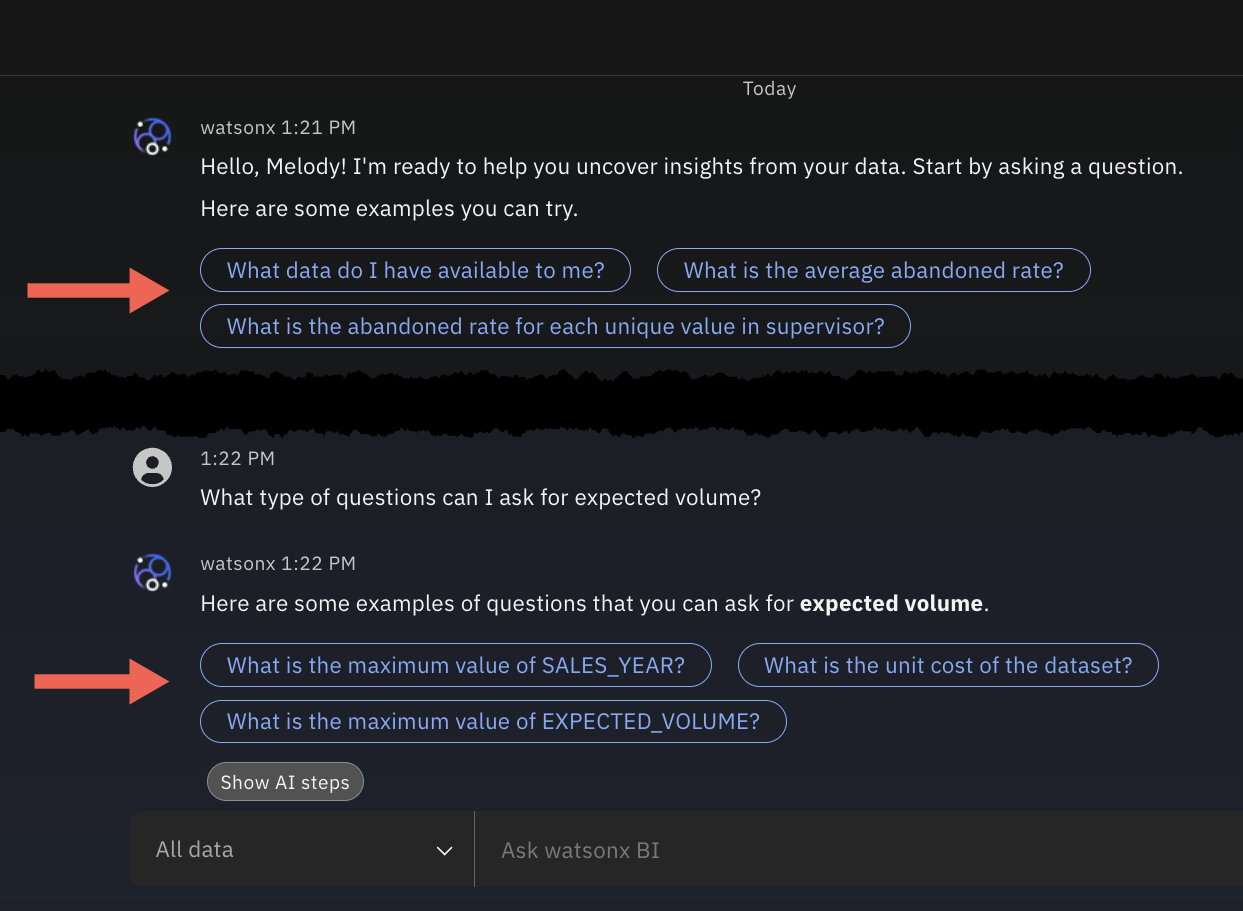
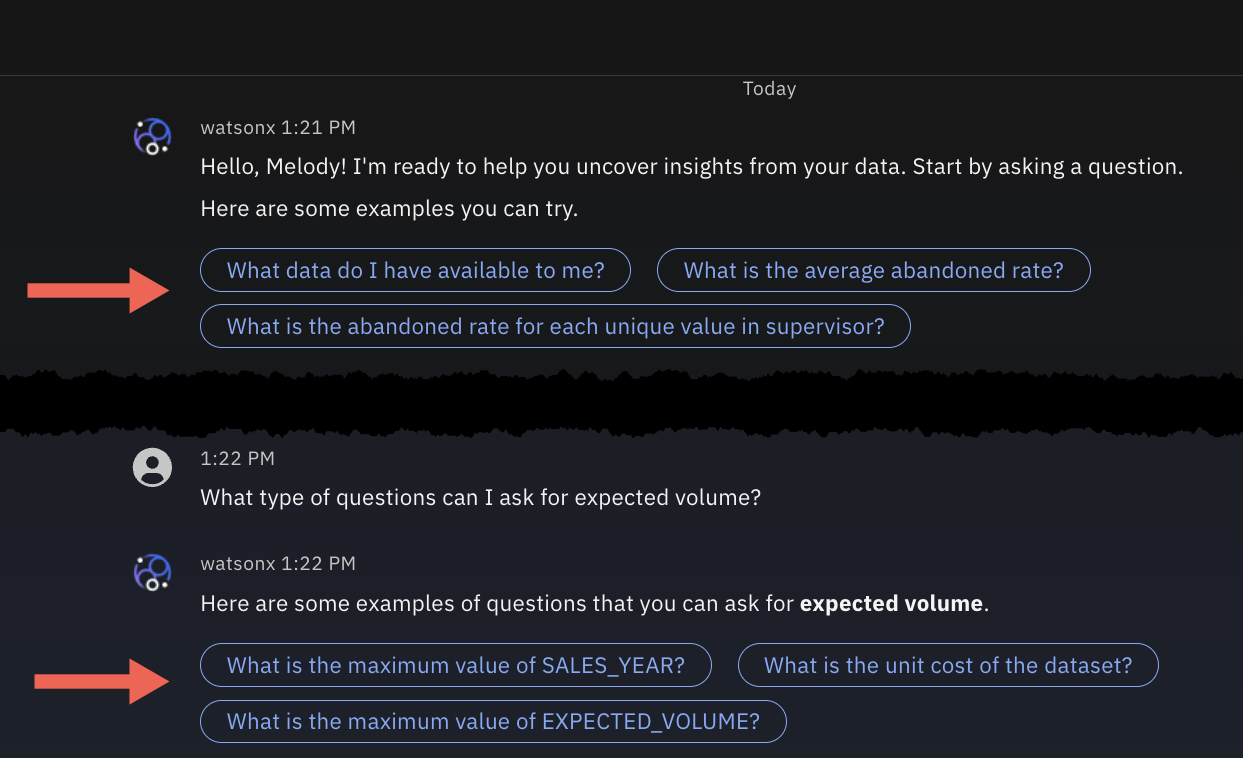
Next publish push (#43)
* Update: 12-11-2025

* Update: 13-11-2025

* Update: 26-11-2025

* Update: 26-11-2025

* Update: 26-11-2025

* Update: 27-11-2025

* Update: 27-11-2025

* Update: 03-12-2025

* Update: 04-12-2025

* Update: 04-12-2025

* Update: 04-12-2025

* Update: 04-12-2025

* Update: 08-12-2025

* Update: 08-12-2025

* Update: 08-12-2025

diff --git a/troubleshooting_enrichment.md b/troubleshooting_enrichment.md
@@ -1,0 +1,52 @@
+---
+copyright:
+  years: 2025
+lastupdated: "2025-11-26"
+
+keywords: monitor enrichment, enrichment error, enrichment warnings
+subcollection: watsonx-bi
+
+
+---
+
+{{site.data.keyword.attribute-definition-list}}
+
+
+# Metadata enrichment errors or warnings 
+{: #troubleshoot_enrichment}
+
+
+
+When creating metrics, you might encounter metadata enrichment (MDE) errors or warnings. These indicate that the enrichment process was incomplete or encountered issues. {: #shortdesc}
+
+- Errors must be resolved by re-running enrichment
+
+- Warnings can be ignored but doing so might reduce query accuracy
+
+Metadata enrichment is essential because the process not only expands metadata, assigns business terms, generates contextual asset and column names and descriptions, but also computes vectors. Vectors help AI understand semantic relationships between queries and actual data values in a structured and mathematical way. Without these vectors, filters in queries (the WHERE clause of a query) might fail to match the correct data if exact values aren't specified in a question.
+
+## Impact of ignored warnings
+{: #ignoring_warnings}
+
+Ignoring enrichment warnings can lead to:
+
+- Incorrect filters - Filters in queries (WHERE clauses) might not match the correct data. 
+
+  For example, asking for “americas” when the column contains “North America” and “South America” might return no results unless vectors suggest the correct values.
+
+- Case and format mismatches - If your data uses specific formats, queries using other variations might fail.
+
+  For example, asking for "surgeries" when the data contains the term "SURGERY" might not return any results. 
+
+If you are unable to resolve warnings and need to proceed with creating metrics or asking questions about your data, you can improve accuracy by adding descriptive column metadata with example values or format details in the semantic data model. The LLM uses this as context when generating queries.
+
+## Common metadata enrichment errors and warnings
+{: #common_mde_messages}
+
+| **Message** | **Impact** | **Recommended action** |
+|-------------|-----------|--------------------------|
+| Unable to retrieve data values to process enriched metadata. | Metadata enrichment could not be completed because data values were not retrieved. | You need to resolve this error before proceeding. Click **Try again** to re-run enrichment. |
+| Unable to retrieve data values to compute and write vectors to Cloud Object Storage. | Enrichment completed with a warning that data values could not be retrieved to compute and write vectors to Cloud Object Storage. This issue will impact accuracy for filter search.| Click **More details** and re-run enrichment.|
+| Unable to compute and write vectors to Cloud Object Storage. | Enrichment completed with a warning that vectors could not be computed and stored to Cloud Object Storage.  This issue will impact accuracy for filter search. |Click **More details** and re-run enrichment. |
+| Unable to write vectors to Cloud Object Storage. | Enrichment completed with a warning that Vectors were computed but not saved. This issue will impact accuracy for filter search. | Click **More details** and re-run enrichment. |
+| Unable to compute and write some vectors to Cloud Object Storage. | Enrichment completed with a warning that only some vectors were computed and written to Cloud Object Storage. This issue might impact acccuracy for filter search. | Click **More details** and re-run the step. |

diff --git a/choose_llm.md b/choose_llm.md
@@ -1,7 +1,7 @@
 ---
 copyright:
   years: 2025
-lastupdated: "2025-10-31"
+lastupdated: "2025-12-08"
 
 keywords: choose llm, large language model
 subcollection: watsonx-bi
@@ -13,7 +13,7 @@ subcollection: watsonx-bi
 {{site.data.keyword.attribute-definition-list}}
 
 
-# Choosing the large language model (LLM) 
+# Selecting the large language model for your account
 {: #choose_llm}
 
 At the time of setting up {{site.data.keyword.wxbia_full}}, Administrators can choose the large language model (LLM) that will be used in {{site.data.keyword.wxbia_short}} conversations for users in their organization. {: #shortdesc}
@@ -30,6 +30,8 @@ As an Administrator, you can choose from the following LLMs:
 |[OpenAI gpt-oss-120b](https://www.ibm.com/docs/en/watsonx/saas?topic=models-third-party-foundation#gpt-oss){: external} and IBM Granite-3-8b-instruct| As a Service, Software Hub 5.2.2 and later versions|
 |[Meta Llama 4](https://www.llama.com/docs/model-cards-and-prompt-formats/llama4/){: external} and IBM Granite-3-8b-instruct | As a Service|
 |[IBM Granite-3-8b-instruct](https://www.ibm.com/docs/watsonx/w-and-w/2.2.0?topic=models-granite-30-8b-instruct-model-card){: external} | As a Service, Software Hub 5.2.0 and later versions |
+
+
 
 Watsonx BI on Software Hub 5.2.1 and previous versions use IBM Granite-3-8b-instruct to respond to your questions. 
 {: note}
@@ -57,14 +59,14 @@ While watsonx BI utilizes large language models for various tasks, this feature 
 
   Choose Meta Llama 4 and Granite for complex, multi-step BI queries. 
 
-
-
+ 
 
 ## Changing the large language model
 {: #change_llm}
 
-Administrators change the LLM from **Navigation menu > Configuration and settings**. 
+As an administrator, you can change the LLM from **Navigation menu > Configuration and settings**. 
 
 When you change the LLM, the change applies at the account level and to new conversations or queries. This means that the change applies to everyone that is a part of the account that has access to {{site.data.keyword.wxbia_short}}.
 
-Users can see the updated LLM name in the AI icon in **Conversations**. Additionally, users can see the LLM being used in the query generation step under **Steps taken by AI** when they ask their next question or start a new conversation.
+Users can see the updated LLM name in the AI icon in **Conversations**. Additionally, users can see the LLM being used in the query generation step under **AI steps** when they ask their next question or start a new conversation.
+  

diff --git a/calculations.md b/calculations.md
@@ -1,7 +1,7 @@
 ---
 copyright:
   years: 2025
-lastupdated: "2025-10-31"
+lastupdated: "2025-11-26"
 
 keywords: calculations, modeling
 subcollection: watsonx-bi
@@ -53,14 +53,9 @@ The expression for these calculations is predefined, and you need to only select
 
   If your calculation is based on two columns, ensure that the order of columns is correct, and choose the required operator. If the order of columns is incorrect, click **Cancel**, and start the calculation again by selecting the columns in the proper order.
 
-5. (Optional) Select the **Calculate after aggregation** checkbox.
 
-  If you select this checkbox, the calculation is performed after the values are aggregated. When you leave this checkbox clear, the calculation is performed on the column values before they are aggregated. The calculation results might be different in each case. 
 
-  When editing a calculation, the **Calculate after aggregation** check box is available only when the calculation **Usage** property is set to **Measure**.
-  {: note}
-
-6. Click **OK** to finish the calculation, or click **Use calculation editor** to view the calculation expression, or to modify it.
+5. Click **OK** to finish the calculation, or click **Use calculation editor** to view the calculation expression, or to modify it.
 
 A calculation based on one column is created as an embedded calculation. The calculation is added at the top of the list of columns in the table. You can move it to a folder inside the same table.
 
@@ -98,11 +93,9 @@ Custom calculations can be based on one column or multiple columns from differen
 
 4. Click **Validate** to check if the expression is valid. The calculation will be created even if the expression is not valid, but it won't be usable.
 
-5. (Optional) Select the **Calculate after aggregation** checkbox.
 
-  When you leave this checkbox clear, the calculation is performed on the column values before they are aggregated. If you select this checkbox, the calculation is performed after the values are aggregated. The calculation results might be different in each case.
 
-6. Click **OK**.
+5. Click **OK**.
 
 A calculation based on one column is created as an embedded calculation. The calculation is added at the top of the list of columns in the table. You can move it to a folder inside the same table.
 

diff --git a/download_response.md b/download_response.md
@@ -1,0 +1,41 @@
+---
+copyright:
+  years: 2025
+lastupdated: "2025-12-03"
+keywords: download, download response, share resposne
+subcollection: watsonx-bi
+
+
+
+---
+
+{{site.data.keyword.attribute-definition-list}}
+
+
+
+# Downloading responses and data from a conversation
+{: #download_response}
+
+You can download the answer and its associated components, such as visualizations, tabular data, and diagnostic information, that were generated in response to your current question. This feature helps you save and share insights from your queries. {: #shortdesc}
+
+You can download the following components of a generated response:
+
+| **Content type**      | **Definition** | **File format** |
+|------------------------|-----------------|-----------------|
+| **Text response**      | The text answer generated in response to your question. Only the text answer is downloaded. Visualizations generated with the response and insights are not included. | `.txt` |
+| **Visualizations**      | The chart generated to answer your question. If you're using Chain of thought reasoning, multiple visualizations might be generated to answer your question, which you can download at the same time. Insights are not included. |`.png` |
+| **Tabular data**       | Tabular data is the data table used by the large language model to generate the response. |`.csv` |
+| **Diagnostic information**    | Diagnositc information includes details such as the steps the AI took to respond, associated SQL, and the response ID (or Support ID). Only Data analysts can download diagnostic information. 
+{: note}| `.json` |
+
+
+If you select multiple components, a ZIP file with the chosen items downloads. 
+
+## Limitations
+{: #limitations_download_response}
+
+- You can download content only from a response where the large language model (LLM) generated a query. 
+
+- Only Data analysts and administrative users can download diagnostic information. 
+
+- You cannot upload a tabular data file that was downloaded from a response to generate insights. 

diff --git a/explainability.md b/explainability.md
@@ -25,11 +25,11 @@ Governed business data is data that has gone through different processes, polici
 
 To respond to your BI question, the LLM analyzes and helps interpret your input. It can then match the interpreted input to your business data (such as column names, measures, or filters) and generates a query to retrieve the matched information to respond to your input. 
 
-The LLM generates a text-based response, visualization, or both based on the matched information to respond to your question. You can see each of these steps under **Steps taken by AI**. 
+The LLM generates a text-based response, visualization, or both based on the matched information to respond to your question. You can see each of these steps under **AI steps**. 
 
 The LLM also monitors key metrics and helps to identify changes in the business data. When you click a metric in the **Key metrics** panel to open it, notice that the AI can summarize and help explain the identified changes in your metrics.
 
-The selected LLM name that was used to respond to your queries displays in the **AI** label and **Steps taken by AI** in conversations.
+The selected LLM name that was used to respond to your queries displays in the **AI** label and **AI steps** in conversations.
 
 {{site.data.keyword.wxbia_short_cap}} uses large language models (LLMs) that are hosted in IBM watsonx.ai and does not use your data to train the models.
 {: note}
@@ -54,4 +54,4 @@ The following LLMs are available:
 
 The LLM change applies at the account level and to new conversations or queries. This means that the change applies to everyone that is a part of the account that has access to {{site.data.keyword.wxbia_short}}.
 
-The updated LLM name appears in the AI icon and the query generation step under **Steps taken by AI** in **Conversations**.  
+The updated LLM name appears in the AI icon and the query generation step under **AI steps** in **Conversations**.  

diff --git a/modeling_best_practices.md b/modeling_best_practices.md
@@ -1,7 +1,7 @@
 ---
 copyright:
   years: 2025
-lastupdated: "2025-11-07"
+lastupdated: "2025-11-26"
 
 keywords: best practices, tips for watasonx BI, optimizing data
 subcollection: watsonx-bi
@@ -125,12 +125,13 @@ Make sure that you add a label and description for metric columns in the semanti
 
 3. AI-suggested or generated in the metadata enrichment asset
 
-
-
 #### Writing a strong description 
 {: #strong_desc}
 
 Ensure that the label and description are worded based on your business context and how users will likely ask questions.
+
+Descriptions need to be 512 characters or less to ensure a balance between accuracy and effectiveness.
+{: important}
 
 Include values in the description to specify time periods
 :   For example: If months are represented as “Jan”, “Feb”, “Mar”, include that in the description. *“Month values are abbreviated as Jan, Feb, Mar...”*
@@ -142,6 +143,10 @@ Reflect user language preferences
 :   For example: If there is a column called "manager”, but your business users use the word "boss" then reflect that in the description. 
   
 :   If you want AI to use "Cost of goods sold" column to answer questions about "Cost breakdown", then add that phrase to the description of the column.
+
+Include multiple examples to demonstrate use 
+: For example: If there is a column called "Year" and you want the LLM to refer to it when you ask it to look up sales for a specific year, specify that in the column description.  
+*"Use for queries such as "in the year 2011" or "in the year 2015".*
 
 #### Adding column labels and descriptions in the semantic model
 {: #add_labels_desc_semantics}

diff --git a/gettingstarted_wxbia.md b/gettingstarted_wxbia.md
@@ -1,7 +1,7 @@
 ---
 copyright:
   years: 2025
-lastupdated: "2025-09-10"
+lastupdated: "2025-11-26"
 
 keywords: conversations, getting started
 subcollection: watsonx-bi
@@ -48,9 +48,9 @@ The chat canvas is an active conversation and any question you enter in the inpu
 
 You can even set the scope of a conversation by selecting the data you want to ask about from the drop-down list next to the input box. By default, the scope of a conversation is set to **All data**. 
 
-Conversations are saved in the conversations panel. By default, conversations are saved with your first question as the title. You can right-click a conversation to rename or delete it. 
+Conversations are saved in the **Conversations** panel. By default, conversations are saved with your first question as the title. You can right-click a conversation to rename or delete it. You can also expand or collapse the panel.
 
-To go back to a conversation and continue questions on a specific topic, open the saved conversation from the conversations panel and enter your question.
+To go back to a conversation and continue questions on a specific topic, open the saved conversation from the conversations panel and enter your question.  
 
 ## Suggested questions
 {: #suggested}

diff --git a/cognos.md b/cognos.md
@@ -1,7 +1,7 @@
 ---
 copyright:
   years: 2025
-lastupdated: "2025-10-31"
+lastupdated: "2025-12-03"
 
 keywords: cognos analytics, cognos, FM package
 subcollection: watsonx-bi
@@ -24,9 +24,9 @@ subcollection: watsonx-bi
 # IBM Cognos Analytics
 {: #cognos}
 
-IBM Cognos Analytics is a business intelligence platform that supports the entire analytics cycle. By integrating Cognos Analytics with {{site.data.keyword.wxbia_full_notm}}, the rich metadata from Cognos Analytics becomes accessible to AI, making it easier for you to get insights from your data. {: #shortdesc}
- 
-{{site.data.keyword.wxbia_full_notm}} and Cognos Analytics integration requires the IBM Cognos Analytics connector. 
+IBM Cognos Analytics is a business intelligence platform that supports the entire analytics cycle. By integrating Cognos Analytics with {{site.data.keyword.wxbia_full_notm}}, the rich metadata from Cognos Analytics becomes accessible to AI, making it easier for you to get insights from your data. {: #shortdesc} 
+
+[Preview]{: tag-teal} {{site.data.keyword.wxbia_full_notm}} and Cognos Analytics integration requires the IBM Cognos Analytics connector. 
 
 ## Prerequisites
 {: #prereq}

diff --git a/known_issues_cloud.md b/known_issues_cloud.md
@@ -2,7 +2,7 @@
 
 copyright:
   years: 2025
-lastupdated: "2025-08-12"
+lastupdated: "2025-12-08"
 
 keywords: known issues, limitations, watsonx BI
 
@@ -17,6 +17,20 @@ subcollection: watsonx-bi
 {: #known_issues_cloud}
 
 The following issues and limitations apply to {{site.data.keyword.wxbia_full}} as a Service.  {: shortdesc}
+
+- **IBM Db2 on-premise connection does not display in the watsonx BI supported connector list**
+
+  The IBM Db2 on-premise connector does not display in the watsonx BI supported connectors list when you try to add a new connection in the metric creation flow. 
+
+  Workaround:
+
+  On the **Add connection** page, which lists the supported connectors, click the **Filter** icon and deselect **watsonx BI**.
+
+  Clearing the filter shows connector types that are not supported in watsonx BI. Before adding new connections, ensure you filter the connector list to display only types supported by watsonx BI.
+  {: important}
+
+  ![Clearing the watsonx BI filter on the Add connection page](images/KI_db2_connector.png)
+
 
 - **Users encounter an error after launching the watsonx BI service from the IBM Cloud catalog**
   

diff --git a/governance.md b/governance.md
@@ -1,7 +1,7 @@
 ---
 copyright:
   years: 2025
-lastupdated: "2025-08-06"
+lastupdated: "2025-12-08"
 
 keywords: governance, business terms
 subcollection: watsonx-bi
@@ -25,9 +25,9 @@ subcollection: watsonx-bi
 
 - Industry-specific Knowledge Accelerator
 
-You can build a more robust semantic layer by establishing your own business concepts in watsonx BI by implementing governance artifacts in [categories](/docs/watsonx-bi?topic=watsonx-bi-categories). Much like folders, categories organize governance artifacts in a hierarchical structure. 
+Administrators can build a more robust semantic layer by establishing the organization's own business concepts in watsonx BI through governance artifacts in [categories](/docs/watsonx-bi?topic=watsonx-bi-categories). Much like folders, categories organize governance artifacts in a hierarchical structure.  
 
-You can add the following governance artifacts in {{site.data.keyword.wxbia_short}}: 
+Administrators can add the following governance artifacts in {{site.data.keyword.wxbia_short}}: 
 
 - [Business terms](/docs/watsonx-bi?topic=watsonx-bi-business_terms)
 

diff --git a/wxdata.md b/wxdata.md
@@ -1,7 +1,7 @@
 ---
 copyright:
   years: 2025
-lastupdated: "2025-11-07"
+lastupdated: "2025-11-12"
 
 keywords: watsonx.data
 subcollection: watsonx-bi
@@ -46,7 +46,7 @@ You can add a connection from the **Data and Metrics** tab in {{site.data.keywor
 
    **IBM watsonx.data Presto**
 
-   If you want to use this connector, set up service-to-service authorization between IBM watsonx.data intelligence and IBM watsonx.data. With this configuration you can run profiling, metadata enrichment jobs and more. For more information, see https://cloud.ibm.com/docs/watsonxdata?topic=watsonxdata-s2s_auth.
+   To use this connector, you need to set up service-to-service authorization between IBM watsonx.data intelligence and IBM watsonx.data. This configuration allows watsonx BI to run profiling and metadata enrichment jobs. For more information, see [Service to service authorization](https://cloud.ibm.com/docs/watsonxdata?topic=watsonxdata-s2s_auth).
    {: important}
 
 

diff --git a/upload_file.md b/upload_file.md
@@ -1,7 +1,7 @@
 ---
 copyright:
   years: 2025
-lastupdated: "2025-11-03"
+lastupdated: "2025-11-27"
 
 keywords: upload file, local file
 
@@ -61,8 +61,7 @@ When a file successfully uploads to a project, it is listed as a data asset in t
 
 You can use uploaded files as data sources in the [create metrics](/docs/watsonx-bi?topic=watsonx-bi-overview_metrics) flow and also define relationships between them for more complex, multi-step BI queries that might require data from two or more flat files. For more information, see [Data modeling {{site.data.keyword.wxbia_short}}](/docs/watsonx-bi?topic=watsonx-bi-advanced_mode_model_data). 
 
-Metrics created from a local file (.csv, .xls, .xlsx, or .tsv) cannot be published to the **Metrics catalog**. 
-{: note}
+
 
 ## Managing uploaded files
 {: #manage_file}
